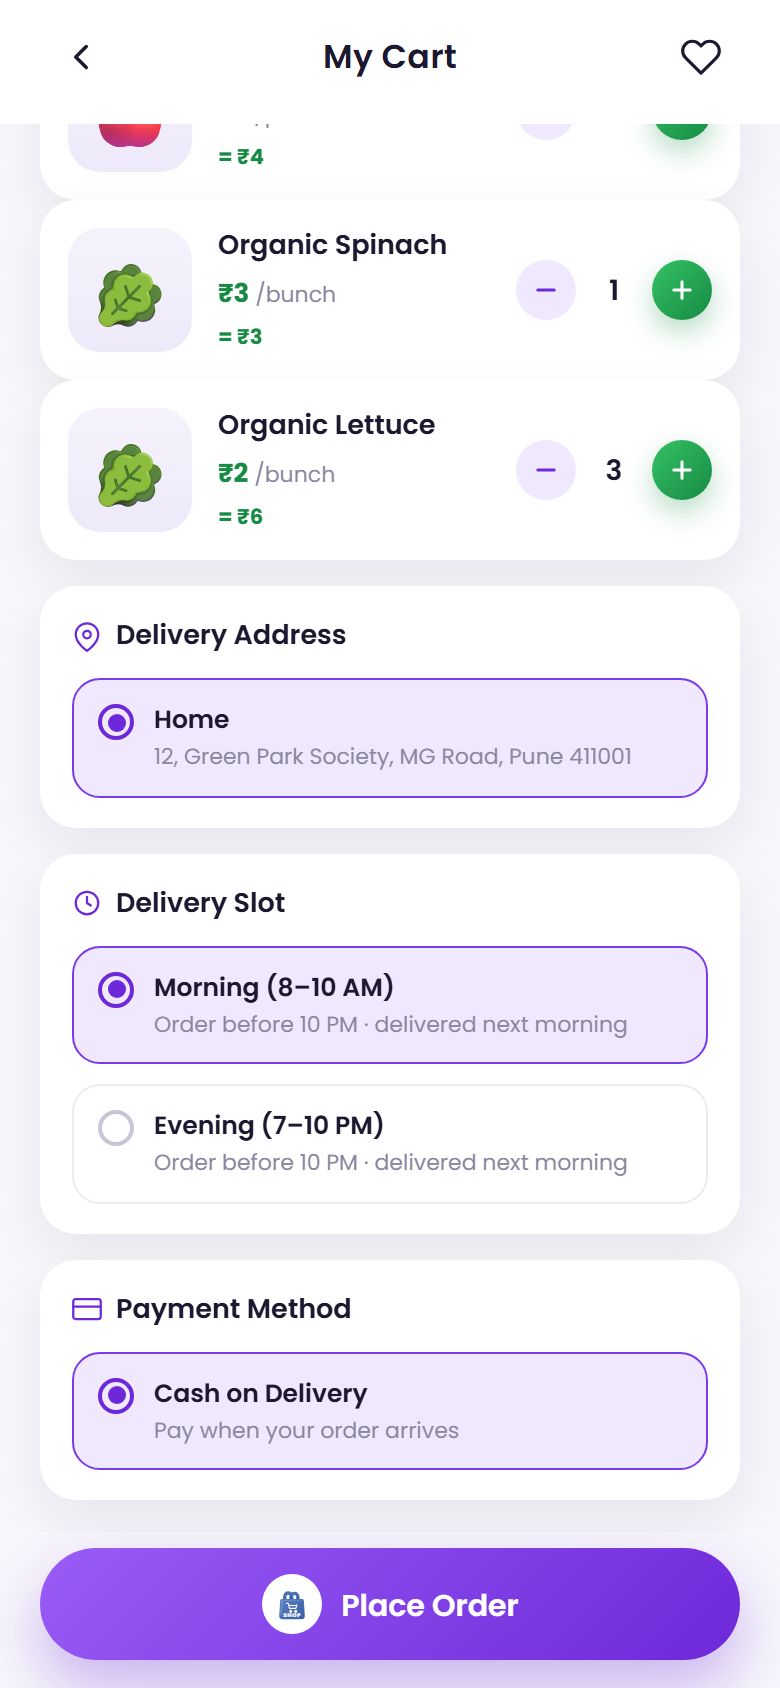
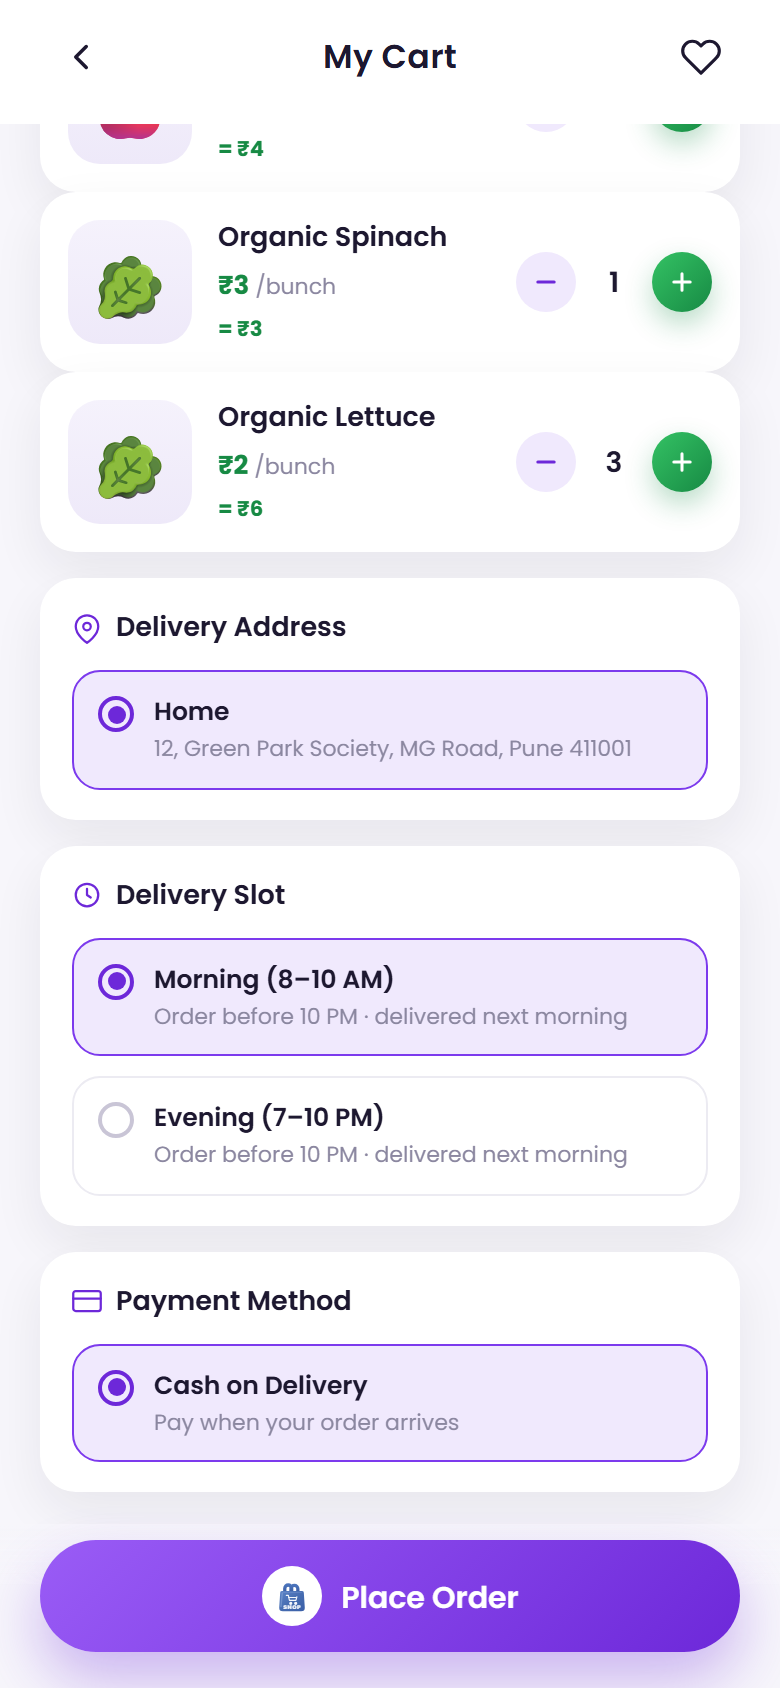
Installed-app mode: viewport-fit=cover + safe-area insets so system bars never overlap the bottom nav

diff --git a/templates/styles.css b/templates/styles.css
@@ -1459,8 +1459,9 @@ input[type='search']::-webkit-search-cancel-button { display: none; }
   }
   .statusbar { display: none; }
 
-  /* breathing room for gesture navigation / rounded screen corners */
-  .tabbar { padding-bottom: max(16px, env(safe-area-inset-bottom)); }
-  .checkout-bar { padding-bottom: max(14px, env(safe-area-inset-bottom)); }
-  .chat-bar { padding-bottom: max(10px, env(safe-area-inset-bottom)); }
+  /* keep clear of the phone's system bars when installed as an app
+     (full-screen PWAs run edge-to-edge; env() insets are 0 in a normal tab) */
+  .screen { padding-top: env(safe-area-inset-top); }
+  .tabbar { padding-bottom: calc(16px + env(safe-area-inset-bottom)); }
+  .checkout-bar { padding-bottom: calc(18px + env(safe-area-inset-bottom)); }
 }

diff --git a/admin/admin.css b/admin/admin.css
@@ -434,6 +434,9 @@ select.input { cursor: pointer; }
 .p-emoji { font-family: var(--emoji); margin-right: 8px; }
 .muted { color: var(--muted); font-size: 12px; }
 
+/* installed-app mode: keep content clear of the phone's system bars */
+body { padding-bottom: env(safe-area-inset-bottom); }
+
 /* settings */
 .settings-card { max-width: 680px; }
 .settings-form { display: flex; flex-direction: column; gap: 15px; padding: 18px; }

diff --git a/templates/login.html b/templates/login.html
@@ -2,7 +2,7 @@
 <html lang="en" data-lang-lock="en">
 <head>
   <meta charset="UTF-8" />
-  <meta name="viewport" content="width=device-width, initial-scale=1.0" />
+  <meta name="viewport" content="width=device-width, initial-scale=1.0, viewport-fit=cover" />
   <title>MyVegFruitShop — Log In</title>
   <link rel="icon" type="image/svg+xml" href="logo.svg" />
   <link rel="manifest" href="manifest.json" />

diff --git a/templates/history.html b/templates/history.html
@@ -2,7 +2,7 @@
 <html lang="en">
 <head>
   <meta charset="UTF-8" />
-  <meta name="viewport" content="width=device-width, initial-scale=1.0" />
+  <meta name="viewport" content="width=device-width, initial-scale=1.0, viewport-fit=cover" />
   <title>MyVegFruitShop — Order History</title>
   <link rel="icon" type="image/svg+xml" href="logo.svg" />
   <link rel="manifest" href="manifest.json" />

diff --git a/templates/messages.html b/templates/messages.html
@@ -2,7 +2,7 @@
 <html lang="en">
 <head>
   <meta charset="UTF-8" />
-  <meta name="viewport" content="width=device-width, initial-scale=1.0" />
+  <meta name="viewport" content="width=device-width, initial-scale=1.0, viewport-fit=cover" />
   <title>MyVegFruitShop — Messages</title>
   <link rel="icon" type="image/svg+xml" href="logo.svg" />
   <link rel="manifest" href="manifest.json" />

diff --git a/templates/account.html b/templates/account.html
@@ -2,7 +2,7 @@
 <html lang="en">
 <head>
   <meta charset="UTF-8" />
-  <meta name="viewport" content="width=device-width, initial-scale=1.0" />
+  <meta name="viewport" content="width=device-width, initial-scale=1.0, viewport-fit=cover" />
   <title>MyVegFruitShop — Account</title>
   <link rel="icon" type="image/svg+xml" href="logo.svg" />
   <link rel="manifest" href="manifest.json" />

diff --git a/templates/cart.html b/templates/cart.html
@@ -2,7 +2,7 @@
 <html lang="en">
 <head>
   <meta charset="UTF-8" />
-  <meta name="viewport" content="width=device-width, initial-scale=1.0" />
+  <meta name="viewport" content="width=device-width, initial-scale=1.0, viewport-fit=cover" />
   <title>MyVegFruitShop — My Cart</title>
   <link rel="icon" type="image/svg+xml" href="logo.svg" />
   <link rel="manifest" href="manifest.json" />

diff --git a/templates/index.html b/templates/index.html
@@ -2,7 +2,7 @@
 <html lang="en">
 <head>
   <meta charset="UTF-8" />
-  <meta name="viewport" content="width=device-width, initial-scale=1.0" />
+  <meta name="viewport" content="width=device-width, initial-scale=1.0, viewport-fit=cover" />
   <title>MyVegFruitShop — Home</title>
   <link rel="icon" type="image/svg+xml" href="logo.svg" />
   <link rel="manifest" href="manifest.json" />

diff --git a/admin/index.html b/admin/index.html
@@ -2,7 +2,7 @@
 <html lang="en">
 <head>
   <meta charset="UTF-8" />
-  <meta name="viewport" content="width=device-width, initial-scale=1.0" />
+  <meta name="viewport" content="width=device-width, initial-scale=1.0, viewport-fit=cover" />
   <title>TAZA Admin — Dashboard</title>
   <link rel="icon" href="logo.svg" />
   <link rel="manifest" href="manifest.json" />

diff --git a/admin/messages.html b/admin/messages.html
@@ -2,7 +2,7 @@
 <html lang="en">
 <head>
   <meta charset="UTF-8" />
-  <meta name="viewport" content="width=device-width, initial-scale=1.0" />
+  <meta name="viewport" content="width=device-width, initial-scale=1.0, viewport-fit=cover" />
   <title>TAZA Admin — Messages</title>
   <link rel="icon" href="logo.svg" />
   <link rel="manifest" href="manifest.json" />

diff --git a/admin/products.html b/admin/products.html
@@ -2,7 +2,7 @@
 <html lang="en">
 <head>
   <meta charset="UTF-8" />
-  <meta name="viewport" content="width=device-width, initial-scale=1.0" />
+  <meta name="viewport" content="width=device-width, initial-scale=1.0, viewport-fit=cover" />
   <title>TAZA Admin — Products</title>
   <link rel="icon" href="logo.svg" />
   <link rel="manifest" href="manifest.json" />

diff --git a/admin/settings.html b/admin/settings.html
@@ -2,7 +2,7 @@
 <html lang="en">
 <head>
   <meta charset="UTF-8" />
-  <meta name="viewport" content="width=device-width, initial-scale=1.0" />
+  <meta name="viewport" content="width=device-width, initial-scale=1.0, viewport-fit=cover" />
   <title>TAZA Admin — Settings</title>
   <link rel="icon" href="logo.svg" />
   <link rel="manifest" href="manifest.json" />
